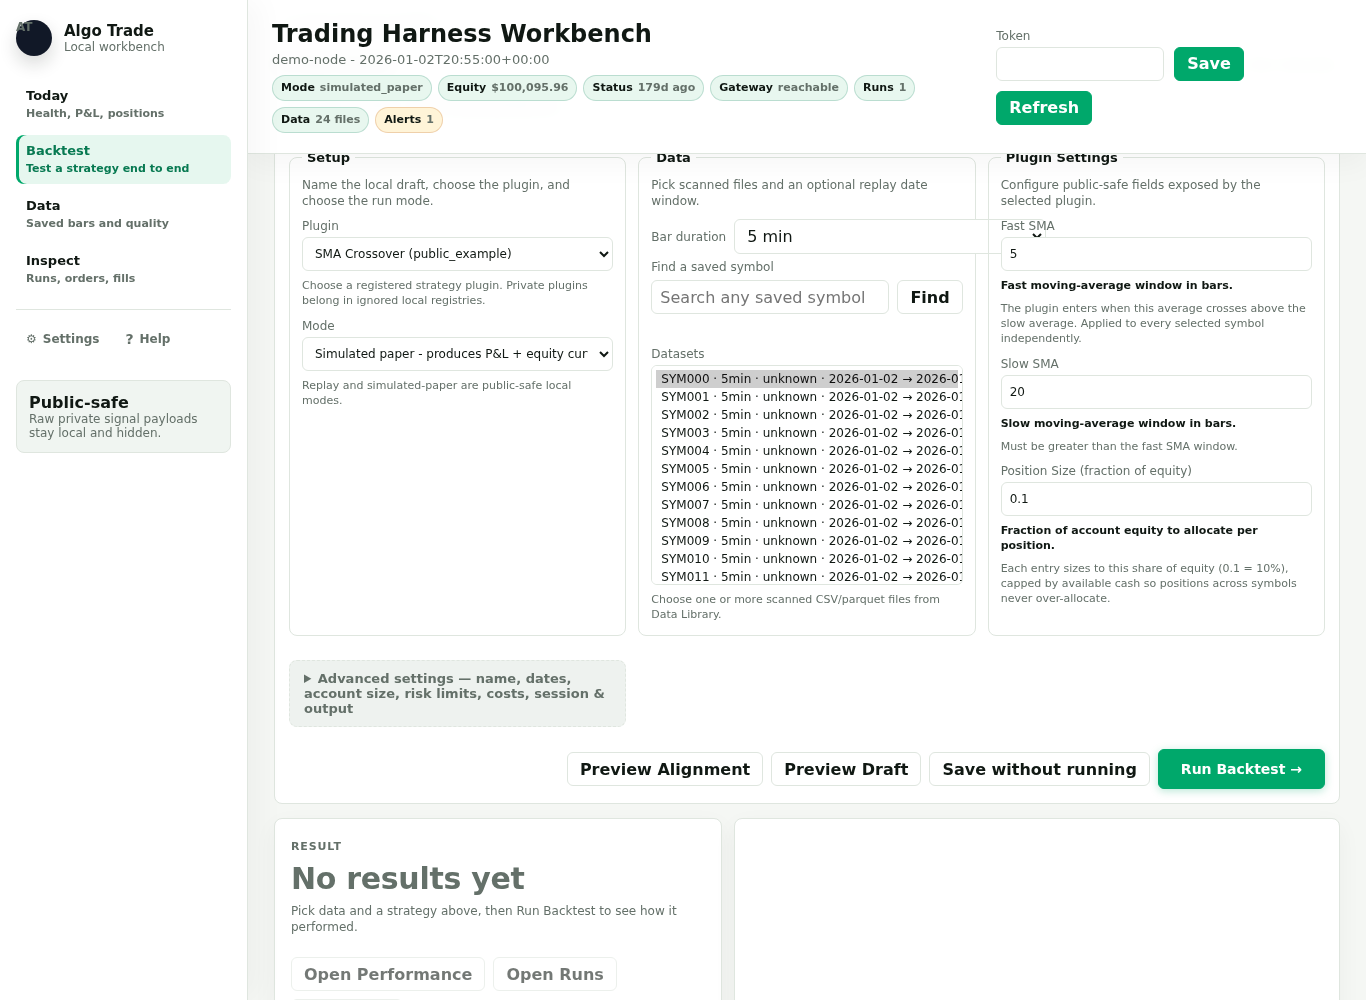
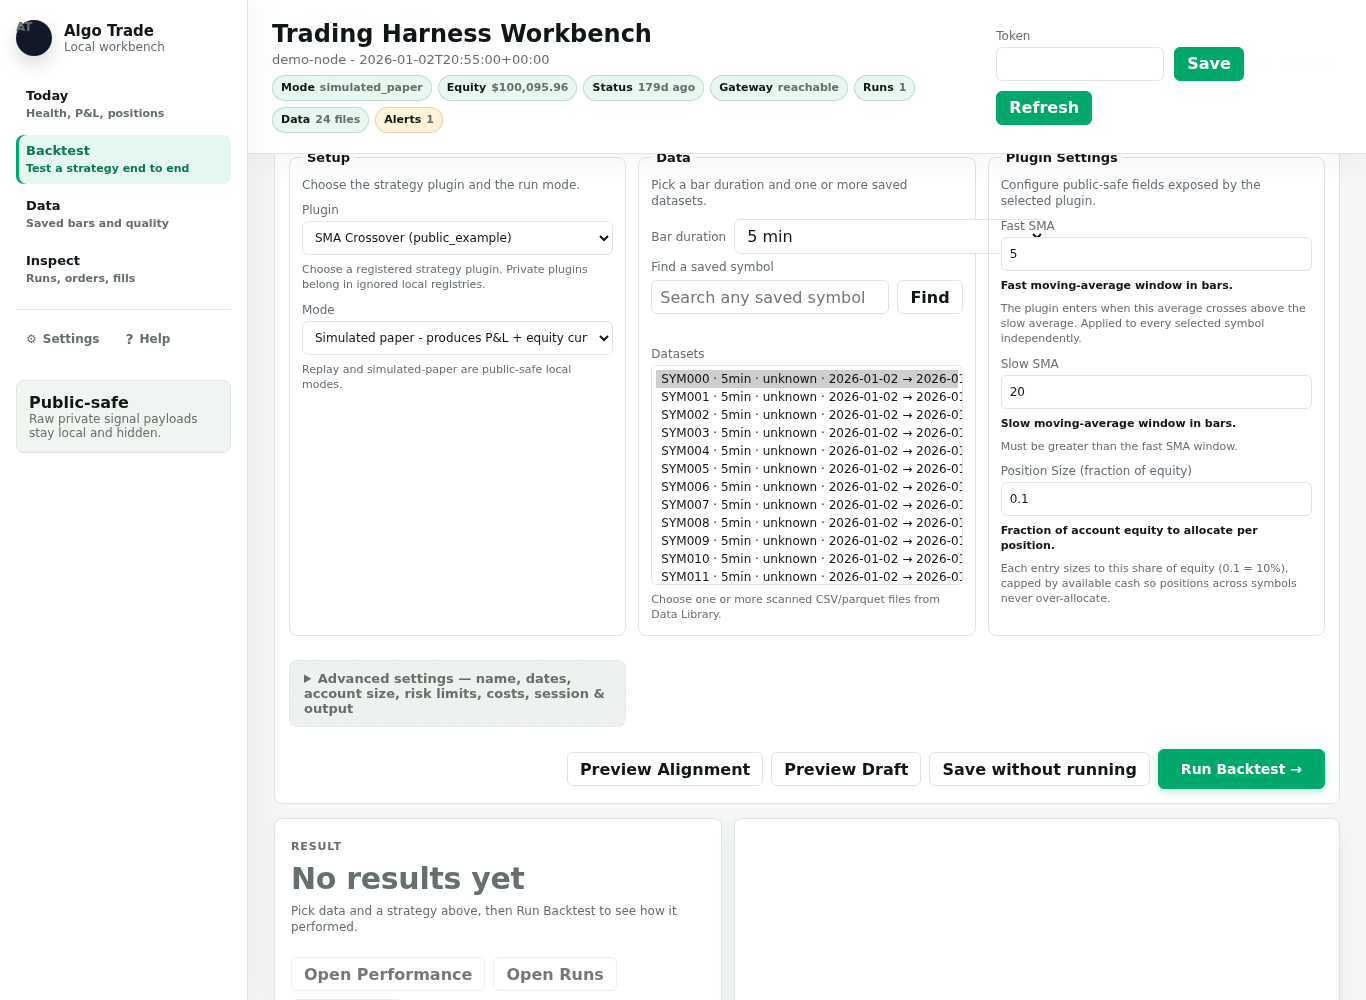
Refresh Backtest walkthrough + config-builder help for the compacted form
Walkthrough now matches the current UI: form leads with plugin + data + params -> Run,
name and optional dates under Advanced, guidance under Builder help, results on the
Performance and Inspect pages. Setup/Data section blurbs corrected and workbench stills
re-shot to match.

Changed region(s): [[0.2152, 0.155, 0.4305, 0.403], [0.5227, 0.155, 0.5534, 0.186], [0.4919, 0.186, 0.5227, 0.217]]

diff --git a/web/dashboard/app/60_workbench_builder.js b/web/dashboard/app/60_workbench_builder.js
@@ -298,9 +298,18 @@ export function renderConfigFormSchema() {
   const OPTIONAL = "optional";
   const sectionTitleOf = (section) => section === OPTIONAL
     ? "Optional" : configSectionTitle(section, sectionMetadata);
-  const sectionHelpOf = (section) => section === OPTIONAL
-    ? "Draft name and an optional replay date range — defaults are fine for a quick run."
-    : configSectionHelp(section, sectionMetadata);
+  // Demoting the name + date fields leaves the backend-provided Setup/Data help
+  // describing fields that now live in Advanced, so override those two blurbs to
+  // match what the section actually shows.
+  const HELP_OVERRIDES = {
+    [OPTIONAL]: "Draft name and an optional replay date range — defaults are fine for a quick run.",
+    identity: "Choose the strategy plugin and the run mode.",
+    data: "Pick a bar duration and one or more saved datasets.",
+  };
+  const sectionHelpOf = (section) =>
+    Object.prototype.hasOwnProperty.call(HELP_OVERRIDES, section)
+      ? HELP_OVERRIDES[section]
+      : configSectionHelp(section, sectionMetadata);
   const sectionOrderOf = (section) => section === OPTIONAL
     ? -1 : configSectionOrder(section, sectionMetadata);
   const sections = [];

diff --git a/docs/workbench_backtest_walkthrough.md b/docs/workbench_backtest_walkthrough.md
@@ -1,8 +1,8 @@
 # Workbench Backtest Walkthrough
 
 This runbook traces the end-to-end backtest loop entirely from the browser:
-pick saved data, choose a plugin, narrow a date window, generate and validate a
-config, run it, and read the results — without editing YAML or touching the
+pick saved data, choose a plugin, optionally narrow a date window, generate and
+validate a config, run it, and read the results — without editing YAML or touching the
 command line. It uses only public-safe local modes and never exposes private
 strategy logic, account IDs, credentials, or runtime logs.
 
@@ -30,12 +30,15 @@ the Workbench's quick-iteration bounds), see
 3. Open `http://127.0.0.1:8765/` and click **Backtest** in the left nav (this is
    the Workbench surface; deep link: `http://127.0.0.1:8765/#workbench`).
 
-The Workbench leads with a **Config Builder**. At the top of it a **Builder
-Assistant** shows live status cards (Data, Plugin, Alignment, Draft, Run) plus
-action buttons (Select/Change Data, Preview Alignment, Generate Draft, Open Run);
-the config form sits below. The same step-by-step flow is also available as a
-stepper and checklist under the collapsed **Overview & guide** disclosure. You
-can follow the steps or work straight from the Builder Assistant and form.
+The Workbench leads with a **Config Builder** whose form is front and center:
+choose a plugin, pick one or more datasets, tune the plugin's parameters, and
+press **Run Backtest**. Secondary controls — the draft name and an optional
+replay date range, plus account size, risk limits, simulated costs, and session
+windows — sit under an **Advanced settings** disclosure so the default path stays
+short. Step-by-step guidance is one click away: a **Builder Assistant** with live
+status cards (Data, Plugin, Alignment, Draft, Run) and action buttons under the
+collapsed **Builder help** disclosure, and a stepper and checklist under the
+collapsed **Overview & guide** disclosure.
 
 ![Workbench builder with seeded demo state](images/dashboard_workbench.png)
 
@@ -61,9 +64,9 @@ the consolidated files as cleaner replay candidates.
 ## The Seven-Step Flow
 
 The seven steps below are the conceptual path. The literal stepper and checklist
-now live under the collapsed **Overview & guide** disclosure, while the **Builder
-Assistant** cards (Data, Plugin, Alignment, Draft, Run) at the top of the Config
-Builder track the same progress.
+live under the collapsed **Overview & guide** disclosure, and the **Builder
+Assistant** cards (Data, Plugin, Alignment, Draft, Run) that track the same
+progress live under the collapsed **Builder help** disclosure.
 
 ### 1. Choose Data
 
@@ -90,15 +93,16 @@ indexed.
 Before replaying, review any catalog quality warnings and storage-contract
 metadata for the files you picked. If a dataset is flagged `warn` or `bad`, the
 Workbench will not silently use it: you must explicitly tick **Allow suspicious
-data for this draft** (in the Output section) to proceed. This is a deliberate
+data for this draft** (under **Advanced settings → Output**) to proceed. This is a deliberate
 guard against backtesting on malformed bars.
 
 ### 3. Choose Range
 
 Optionally narrow the replay to a date window using the **Start Date** and
-**End Date** fields. Leaving them blank replays the full extent of the selected
-files. The end date is inclusive through end-of-day. These fields write the
-`data.start` and `data.end` keys into the generated config.
+**End Date** fields, under **Advanced settings → Optional**. Leaving them blank
+(the default) replays the full extent of the selected files. The end date is
+inclusive through end-of-day. These fields write the `data.start` and `data.end`
+keys into the generated config.
 
 ### 4. Inspect Alignment
 
@@ -112,10 +116,11 @@ easier to catch here than in the output.
 Generate a public-safe runner config from the form, then validate it. Validation
 instantiates the selected plugin and checks the runner contract before anything
 executes, so configuration mistakes surface here rather than mid-run. Tick
-**Save draft locally** to persist the generated YAML under the local Workbench
-state directory; a saved, valid draft is required for the Run step.
+**Save draft locally** (under **Advanced settings → Output**) to persist the
+generated YAML under the local Workbench state directory; a saved, valid draft is
+required for the Run step.
 
-![Workbench Generate Draft form with selected dataset and date window](images/dashboard_workbench_generate_draft.png)
+![Workbench Config Builder with a dataset selected, ready to generate a draft](images/dashboard_workbench_generate_draft.png)
 
 ### 6. Run Simulation
 
@@ -136,34 +141,46 @@ engine used on the command line, captures its output, and records the run.
 ### 7. Inspect Results
 
 A completed `simulated_paper` run archives its artifacts and computes a summary.
-Open them on the **Performance** page (equity curve, drawdown, realized PnL,
-return bars, KPIs, and a per-symbol **Price & Trades** candlestick chart with
-your buy/sell markers and a symbol selector) and the **Runs** page (per-run
-`decisions`, `orders`, `fills`, `account`, and `summary` records). Trade rows
-are paired from sanitized fills, so win rate and profit factor reflect real
-round trips. The Price & Trades chart only populates for runs that produced
-fills, so use `simulated_paper` (not `replay`) to see entries and exits plotted
-on the price bars.
+Open them on the **Performance** page, which leads with the headline return and
+account equity and then a grouped **Charts** panel (equity curve, drawdown,
+realized PnL, return bars, KPIs, and a per-symbol **Price & Trades** candlestick
+chart with your buy/sell markers and a symbol selector). The **Inspect** page
+(labeled *Inspect* in the left nav; deep link `#runs`) leads with a flattened
+**Orders & Fills** table and carries the per-run `decisions`, `orders`, `fills`,
+`account`, and `summary` records. Trade rows are paired from sanitized fills, so
+win rate and profit factor reflect real round trips. The Price & Trades chart
+only populates for runs that produced fills, so use `simulated_paper` (not
+`replay`) to see entries and exits plotted on the price bars.
 
-![Performance page with seeded simulated-paper results](images/dashboard_performance.png)
+![Performance page leading with headline return and grouped charts](images/dashboard_performance.png)
 
-![Runs page with artifacts and event context](images/dashboard_runs.png)
+![Inspect page leading with the flattened Orders & Fills table](images/dashboard_runs.png)
 
 ## Config Form Reference
 
-The form groups fields into sections. Only the most run-shaping fields are
-listed here; each field carries inline help in the UI.
+The form groups fields into sections. The primary form carries the run-shaping
+choices; everything secondary sits under the **Advanced settings** disclosure, so
+the default path is pick plugin + data → run. Each field carries inline help in
+the UI; only the most run-shaping fields are listed here.
 
-- **Setup** — draft name, plugin, and run mode (`replay`, `shadow`, or
-  `simulated_paper`). This run *mode* is baked into the generated YAML and is
-  distinct from the Run-step *action* (`validate`, `replay`, `simulated_paper`)
-  in Step 6: `validate` re-checks the config without running, and `shadow`
-  (mirror-live decisions, no orders) is a valid mode but is not offered as a
-  Workbench Run action.
-- **Data** — selected datasets and the optional start/end date window.
+Primary form:
+
+- **Setup** — plugin and run mode (`replay`, `shadow`, or `simulated_paper`).
+  This run *mode* is baked into the generated YAML and is distinct from the
+  Run-step *action* (`validate`, `replay`, `simulated_paper`) in Step 6:
+  `validate` re-checks the config without running, and `shadow` (mirror-live
+  decisions, no orders) is a valid mode but is not offered as a Workbench Run
+  action.
+- **Data** — bar duration and selected datasets.
 - **Plugin Settings** — the public-safe parameters the selected plugin exposes
   (for example, fast/slow lengths for an SMA-crossover example). These are
-  declared by the plugin, so the available fields change with the plugin.
+  declared by the plugin, so the available fields change with the plugin, and
+  only the selected plugin's fields are shown.
+
+Under **Advanced settings**:
+
+- **Optional** — the draft name and the optional start/end replay date window
+  (blank replays the full extent of the selected files).
 - **Account** — `Starting Cash`, `History Bars` (prior bars handed to the
   plugin's decision window), and `Max Steps`.
 - **Runtime** — optional session window (timezone, start/end, weekdays, and